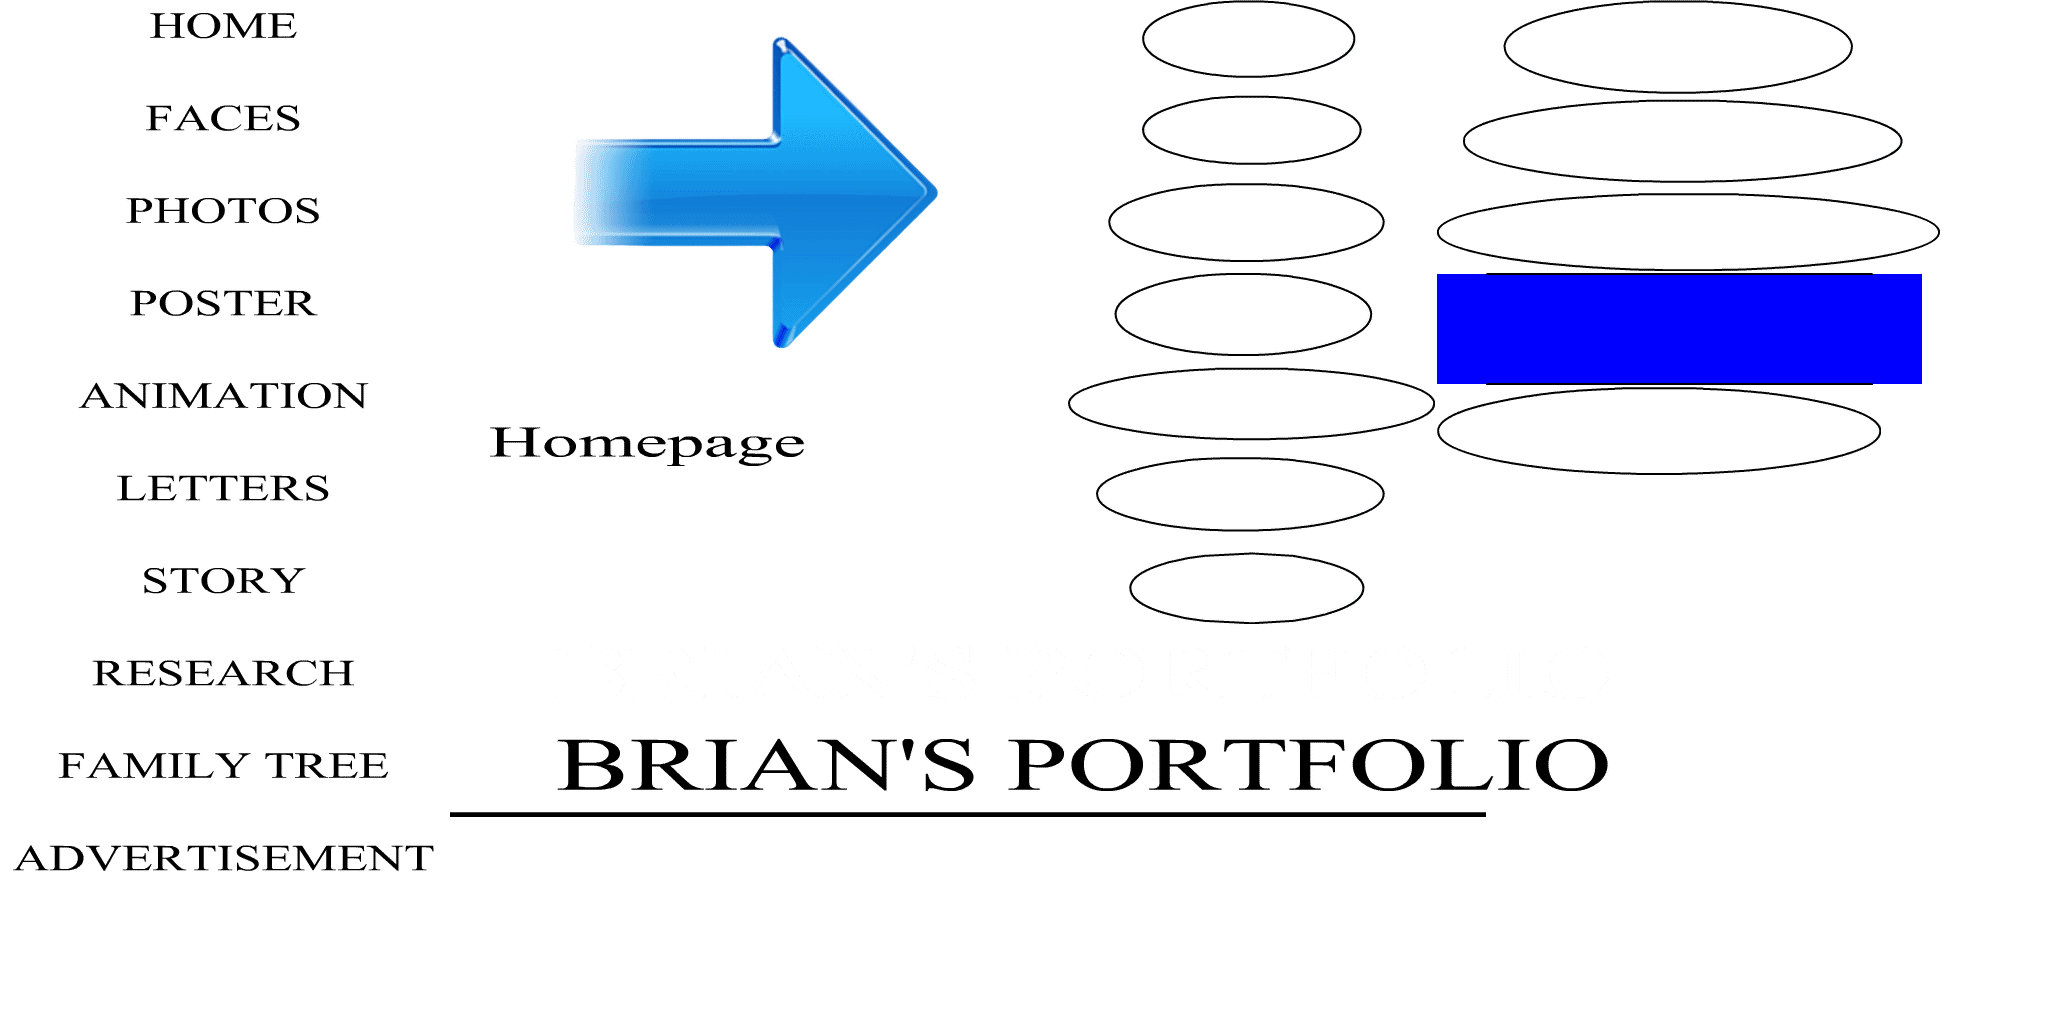
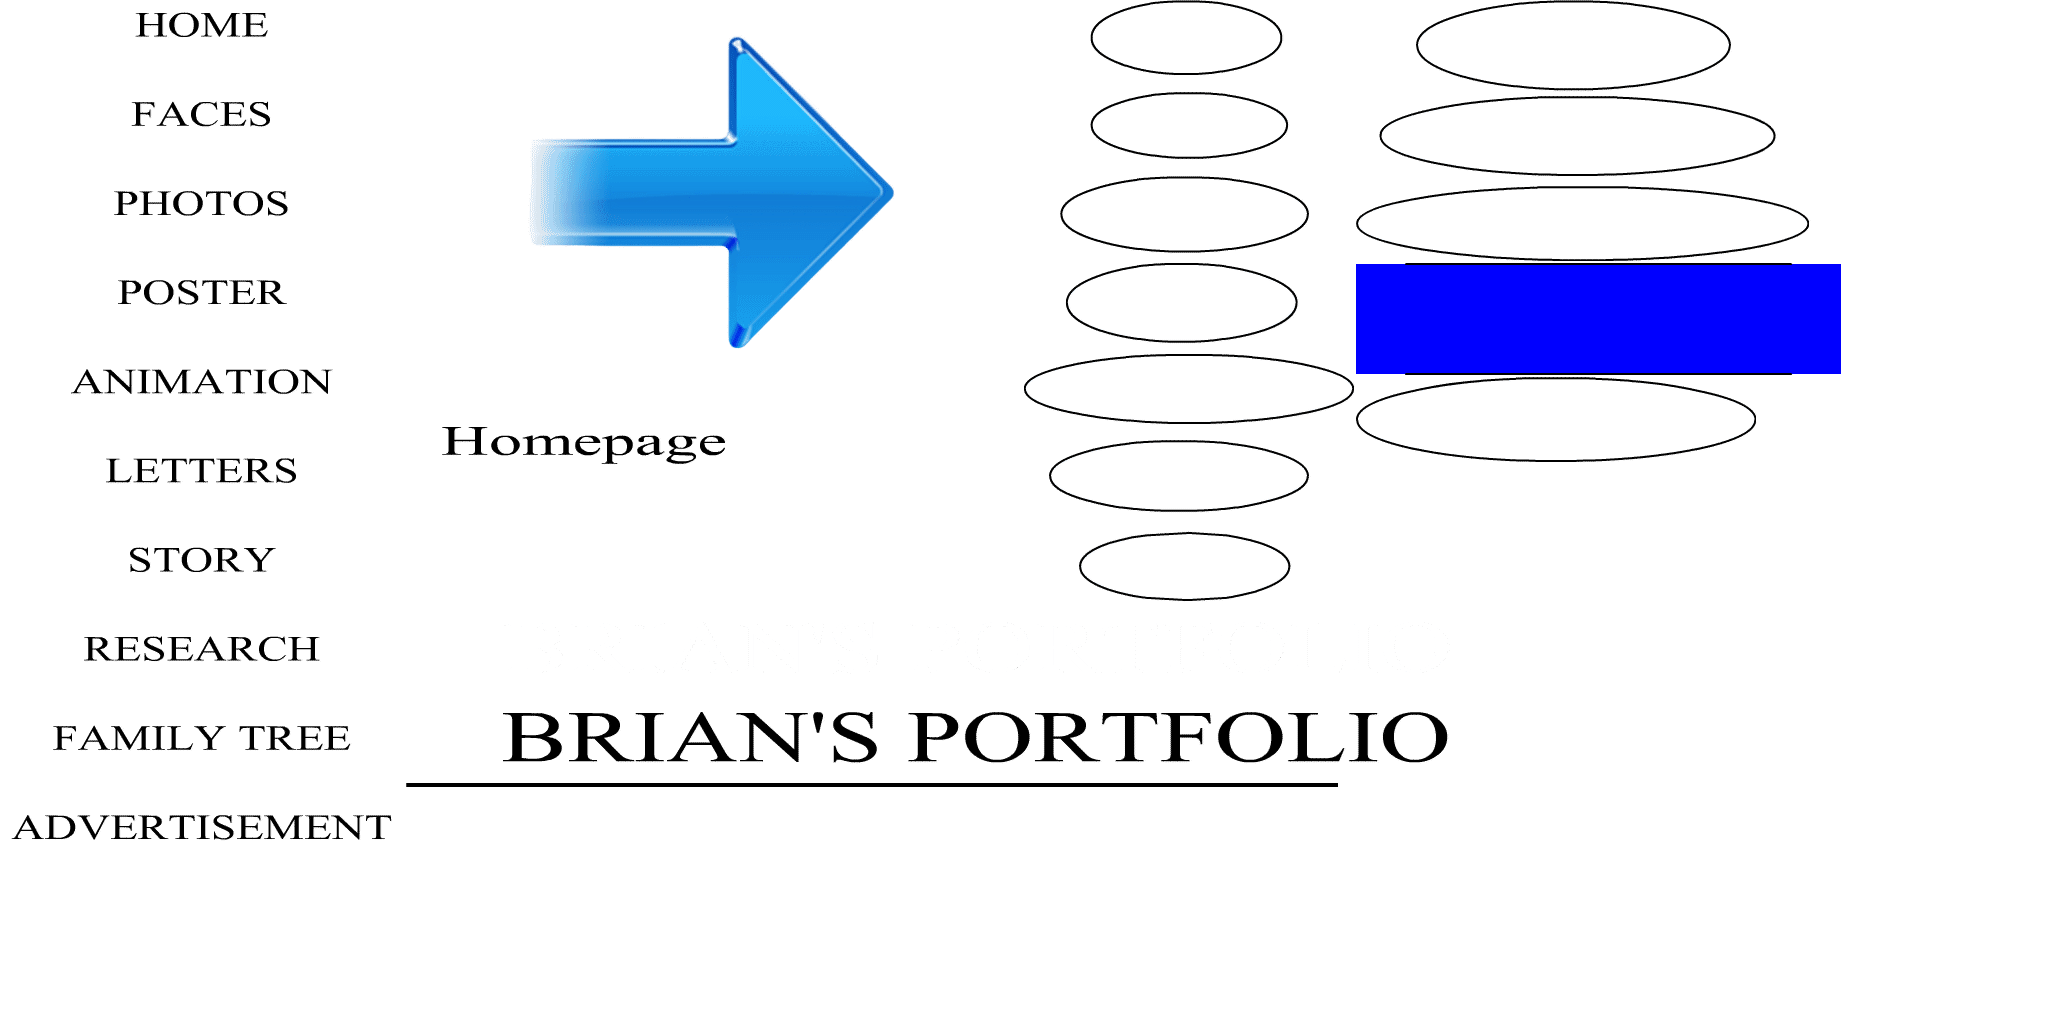
'C'

diff --git a/gd_portfolio/Controller.js b/gd_portfolio/Controller.js
@@ -4,7 +4,7 @@ var p; // shortcut to reference prototypes
 var lib={};var ss={};var img={};
 lib.ssMetadata = [
 		{name:"Controller_atlas_", frames: [[0,0,1920,1200]]},
-		{name:"Controller_atlas_2", frames: [[1437,273,485,112],[450,626,1268,91],[450,719,1268,91],[450,812,1036,5],[1068,0,367,624],[1437,387,444,88],[450,407,395,71],[0,0,448,884],[1437,0,503,271],[450,0,616,405]]}
+		{name:"Controller_atlas_2", frames: [[1356,263,485,112],[406,603,1141,88],[406,693,1141,88],[406,783,932,4],[1024,0,330,601],[1356,377,400,85],[406,407,356,68],[0,0,404,852],[1356,0,453,261],[406,0,616,405]]}
 ];
 
 
@@ -242,57 +242,57 @@ p.nominalBounds = new cjs.Rectangle(-22,-0.5,264.5,56);
 	// Inv_btns
 	this.return_btn = new lib.inv_btn();
 	this.return_btn.name = "return_btn";
-	this.return_btn.setTransform(1264.9,632.7,0.9907,0.5834,0,0,0,121.4,27.7);
+	this.return_btn.setTransform(1175.4,623.5,0.8917,0.5621,0,0,0,121.4,27.8);
 	new cjs.ButtonHelper(this.return_btn, 0, 1, 2, false, new lib.inv_btn(), 3);
 
 	this.btn_ad = new lib.inv_btn();
 	this.btn_ad.name = "btn_ad";
-	this.btn_ad.setTransform(172.9,629.5,0.9907,0.5834,0,0,0,121.4,27.7);
+	this.btn_ad.setTransform(192.5,620.35,0.8917,0.5621,0,0,0,121.4,27.7);
 	new cjs.ButtonHelper(this.btn_ad, 0, 1, 2, false, new lib.inv_btn(), 3);
 
 	this.btn_tree = new lib.inv_btn();
 	this.btn_tree.name = "btn_tree";
-	this.btn_tree.setTransform(189.6,584.75,0.9907,0.5834,0,0,0,121.4,27.7);
+	this.btn_tree.setTransform(207.5,577.3,0.8917,0.5621,0,0,0,121.4,27.8);
 	new cjs.ButtonHelper(this.btn_tree, 0, 1, 2, false, new lib.inv_btn(), 3);
 
 	this.btn_research = new lib.inv_btn();
 	this.btn_research.name = "btn_research";
-	this.btn_research.setTransform(209.7,536.7,0.9907,0.5834,0,0,0,121.4,27.7);
+	this.btn_research.setTransform(225.6,530.95,0.8917,0.5621,0,0,0,121.4,27.7);
 	new cjs.ButtonHelper(this.btn_research, 0, 1, 2, false, new lib.inv_btn(), 3);
 
 	this.btn_story = new lib.inv_btn();
 	this.btn_story.name = "btn_story";
-	this.btn_story.setTransform(237.75,491.35,0.9907,0.5834,0,0,0,121.4,27.7);
+	this.btn_story.setTransform(250.9,487.25,0.8917,0.5621,0,0,0,121.5,27.7);
 	new cjs.ButtonHelper(this.btn_story, 0, 1, 2, false, new lib.inv_btn(), 3);
 
 	this.btn_initials = new lib.inv_btn();
 	this.btn_initials.name = "btn_initials";
-	this.btn_initials.setTransform(222.95,445.5,0.9907,0.5834,0,0,0,121.4,27.7);
+	this.btn_initials.setTransform(237.55,443.15,0.8917,0.5621,0,0,0,121.4,27.8);
 	new cjs.ButtonHelper(this.btn_initials, 0, 1, 2, false, new lib.inv_btn(), 3);
 
 	this.btn_animation = new lib.inv_btn();
 	this.btn_animation.name = "btn_animation";
-	this.btn_animation.setTransform(218.3,399.6,0.9907,0.5834,0,0,0,121.4,27.7);
+	this.btn_animation.setTransform(230.4,398.85,0.8917,0.5621,0,0,0,121.5,27.7);
 	new cjs.ButtonHelper(this.btn_animation, 0, 1, 2, false, new lib.inv_btn(), 3);
 
 	this.btn_poster = new lib.inv_btn();
 	this.btn_poster.name = "btn_poster";
-	this.btn_poster.setTransform(239.6,355,0.9907,0.5834,0,0,0,121.4,27.7);
+	this.btn_poster.setTransform(252.55,355.95,0.8917,0.5621,0,0,0,121.4,27.8);
 	new cjs.ButtonHelper(this.btn_poster, 0, 1, 2, false, new lib.inv_btn(), 3);
 
 	this.btn_photos = new lib.inv_btn();
 	this.btn_photos.name = "btn_photos";
-	this.btn_photos.setTransform(233.55,308.45,0.9907,0.5834,0,0,0,121.4,27.7);
+	this.btn_photos.setTransform(247.05,311.1,0.8917,0.5621,0,0,0,121.4,27.8);
 	new cjs.ButtonHelper(this.btn_photos, 0, 1, 2, false, new lib.inv_btn(), 3);
 
 	this.btn_faces = new lib.inv_btn();
 	this.btn_faces.name = "btn_faces";
-	this.btn_faces.setTransform(245.65,261.7,0.9907,0.5834,0,0,0,121.4,27.7);
+	this.btn_faces.setTransform(257.95,266.05,0.8917,0.5621,0,0,0,121.4,27.8);
 	new cjs.ButtonHelper(this.btn_faces, 0, 1, 2, false, new lib.inv_btn(), 3);
 
 	this.btn_home = new lib.inv_btn();
 	this.btn_home.name = "btn_home";
-	this.btn_home.setTransform(251.65,216.9,0.9907,0.5834,0,0,0,121.4,27.7);
+	this.btn_home.setTransform(263.35,222.9,0.8917,0.5621,0,0,0,121.4,27.8);
 	new cjs.ButtonHelper(this.btn_home, 0, 1, 2, false, new lib.inv_btn(), 3);
 
 	this.timeline.addTween(cjs.Tween.get({}).to({state:[{t:this.btn_home},{t:this.btn_faces},{t:this.btn_photos},{t:this.btn_poster},{t:this.btn_animation},{t:this.btn_initials},{t:this.btn_story},{t:this.btn_research},{t:this.btn_tree},{t:this.btn_ad},{t:this.return_btn}]}).wait(1));
@@ -301,46 +301,46 @@ p.nominalBounds = new cjs.Rectangle(-22,-0.5,264.5,56);
 	this.video_ins = new lib.an_Video({'id': 'video_ins', 'src':'videos/', 'autoplay':true, 'controls':true, 'muted':false, 'loop':true, 'poster':'images/', 'preload':true, 'class':'video'});
 
 	this.video_ins.name = "video_ins";
-	this.video_ins.setTransform(753.65,426.45,1.9116,1.6966,0,0,0,200.7,151);
+	this.video_ins.setTransform(715.35,424.7,1.7206,1.6347,0,0,0,200.8,151);
 
 	this.timeline.addTween(cjs.Tween.get(this.video_ins).wait(1));
 
 	// Text_btns
 	this.instance = new lib.CachedBmp_3();
-	this.instance.setTransform(1190.65,616.2,0.5,0.5);
+	this.instance.setTransform(1108.6,607.55,0.5,0.5);
 
 	this.instance_1 = new lib.CachedBmp_2();
-	this.instance_1.setTransform(108.7,201.7,0.5,0.5);
+	this.instance_1.setTransform(134.65,208.15,0.5,0.5);
 
 	this.instance_2 = new lib.CachedBmp_1();
-	this.instance_2.setTransform(97.2,513.9,0.5,0.5);
+	this.instance_2.setTransform(124.35,508.95,0.5,0.5);
 
 	this.timeline.addTween(cjs.Tween.get({}).to({state:[{t:this.instance_2},{t:this.instance_1},{t:this.instance}]}).wait(1));
 
 	// Return_home
 	this.instance_3 = new lib.CachedBmp_4();
-	this.instance_3.setTransform(1178.15,613.95,0.5,0.5);
+	this.instance_3.setTransform(1097.35,605.35,0.5,0.5);
 
 	this.timeline.addTween(cjs.Tween.get(this.instance_3).wait(1));
 
 	// txt_btns_bg
 	this.instance_4 = new lib.CachedBmp_5();
-	this.instance_4.setTransform(130.5,197.7,0.5,0.5);
+	this.instance_4.setTransform(154.3,204.3,0.5,0.5);
 
 	this.timeline.addTween(cjs.Tween.get(this.instance_4).wait(1));
 
 	// Title
 	this.instance_5 = new lib.CachedBmp_7();
-	this.instance_5.setTransform(433.4,79.35,0.5,0.5);
+	this.instance_5.setTransform(426.95,90.25,0.5,0.5);
 
 	this.instance_6 = new lib.CachedBmp_6();
-	this.instance_6.setTransform(488.2,120.25,0.5,0.5);
+	this.instance_6.setTransform(476.35,129.7,0.5,0.5);
 
 	this.timeline.addTween(cjs.Tween.get({}).to({state:[{t:this.instance_6},{t:this.instance_5}]}).wait(1));
 
 	// Title_w_bg
 	this.instance_7 = new lib.CachedBmp_8();
-	this.instance_7.setTransform(435.7,79.35,0.5,0.5);
+	this.instance_7.setTransform(429,90.25,0.5,0.5);
 
 	this.timeline.addTween(cjs.Tween.get(this.instance_7).wait(1));
 
@@ -363,11 +363,11 @@ lib.properties = {
 	color: "#FFFFFF",
 	opacity: 1.00,
 	manifest: [
-		{src:"images/Controller_atlas_.png?1588435183840", id:"Controller_atlas_"},
-		{src:"images/Controller_atlas_2.png?1588435183840", id:"Controller_atlas_2"},
-		{src:"https://code.jquery.com/jquery-3.4.1.min.js?1588435183860", id:"lib/jquery-3.4.1.min.js"},
-		{src:"components/sdk/anwidget.js?1588435183860", id:"sdk/anwidget.js"},
-		{src:"components/video/src/video.js?1588435183860", id:"an.Video"}
+		{src:"images/Controller_atlas_.png?1588512021531", id:"Controller_atlas_"},
+		{src:"images/Controller_atlas_2.png?1588512021531", id:"Controller_atlas_2"},
+		{src:"https://code.jquery.com/jquery-3.4.1.min.js?1588512021550", id:"lib/jquery-3.4.1.min.js"},
+		{src:"components/sdk/anwidget.js?1588512021550", id:"sdk/anwidget.js"},
+		{src:"components/video/src/video.js?1588512021550", id:"an.Video"}
 	],
 	preloads: []
 };

diff --git a/gd_portfolio/Controller.html b/gd_portfolio/Controller.html
@@ -14,7 +14,7 @@
 <title>Controller</title>
 <!-- write your code here -->
 <script src="https://code.createjs.com/1.0.0/createjs.min.js"></script>
-<script src="Controller.js?1588435183886"></script>
+<script src="Controller.js?1588512021576"></script>
 <script>
 var canvas, stage, exportRoot, anim_container, dom_overlay_container, fnStartAnimation;
 function init() {
